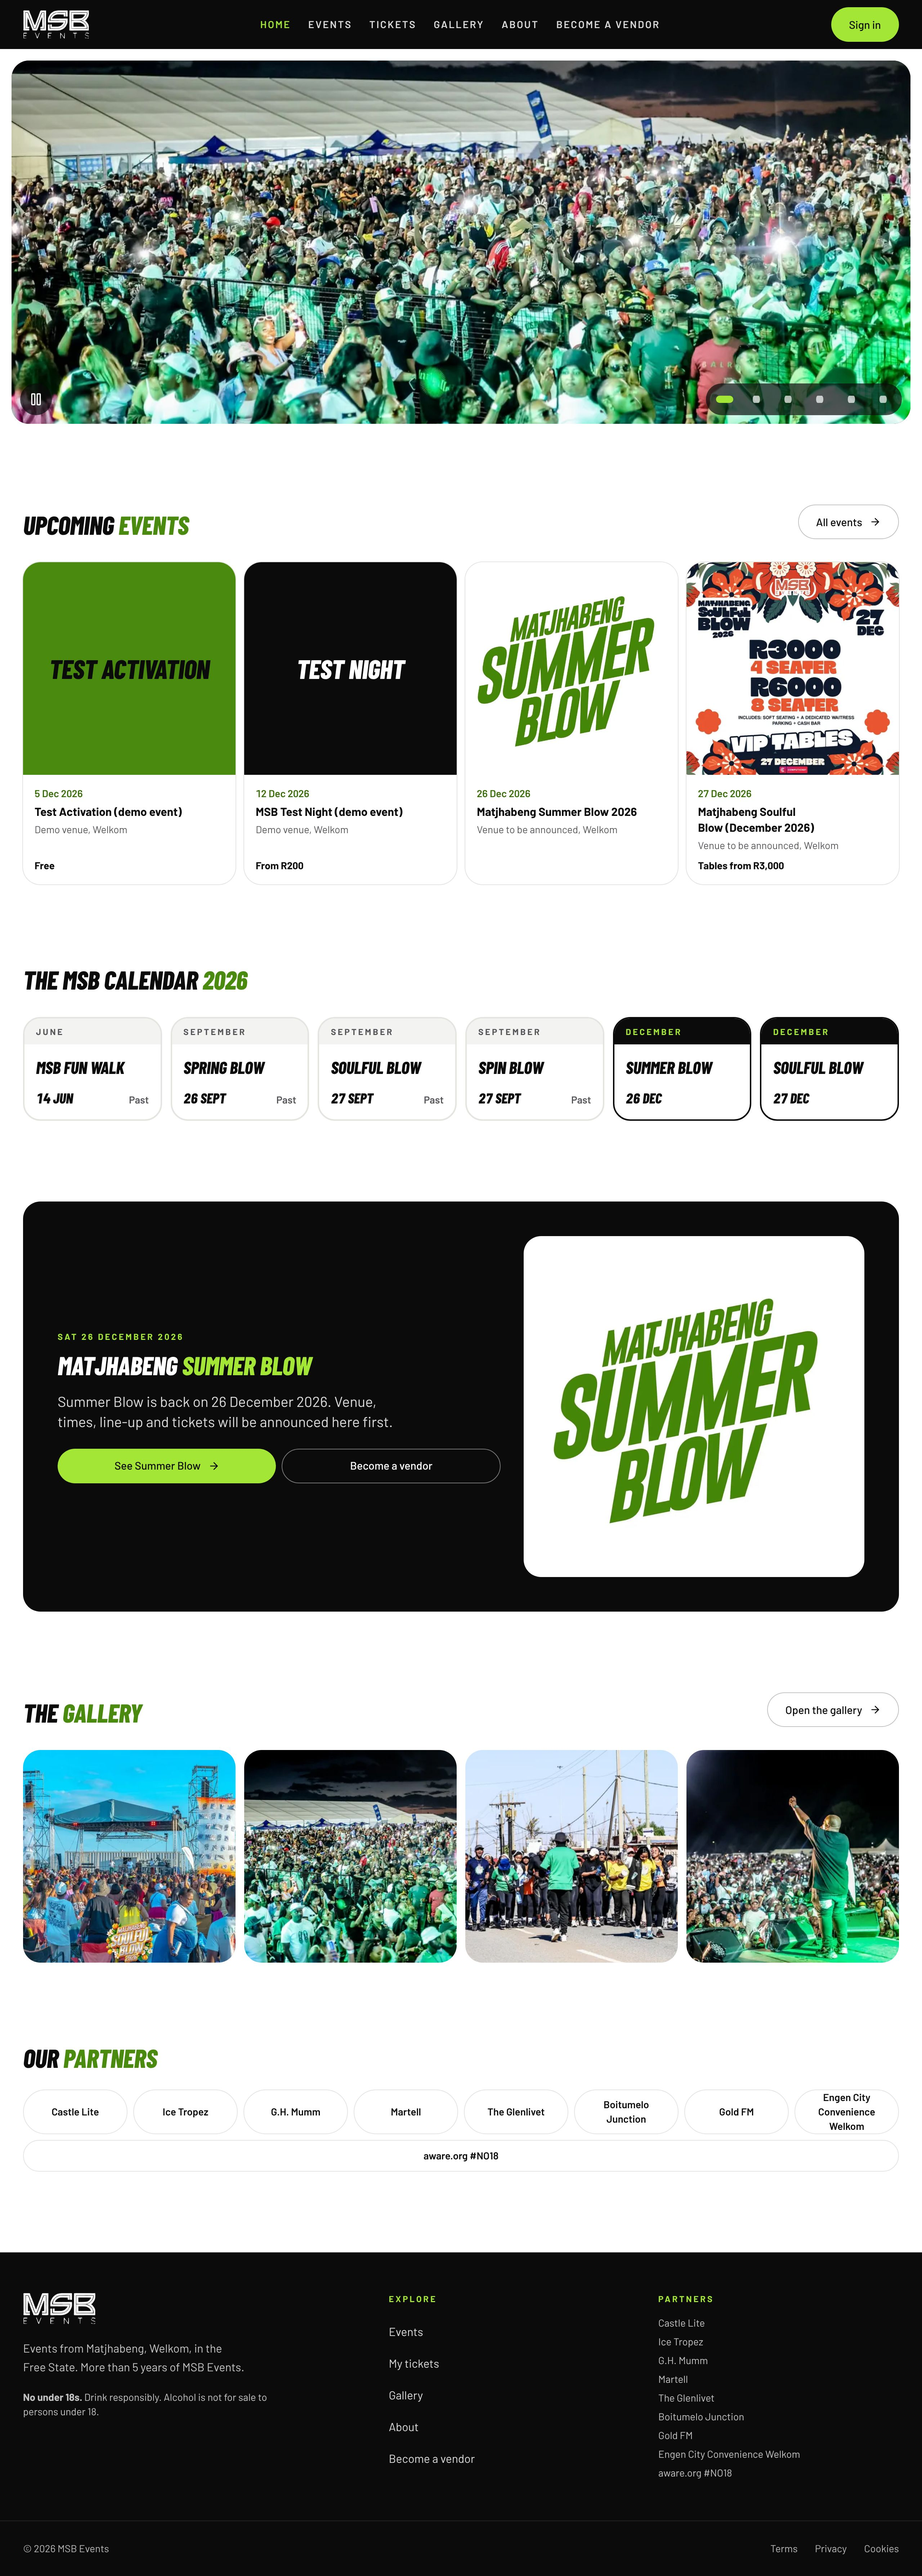
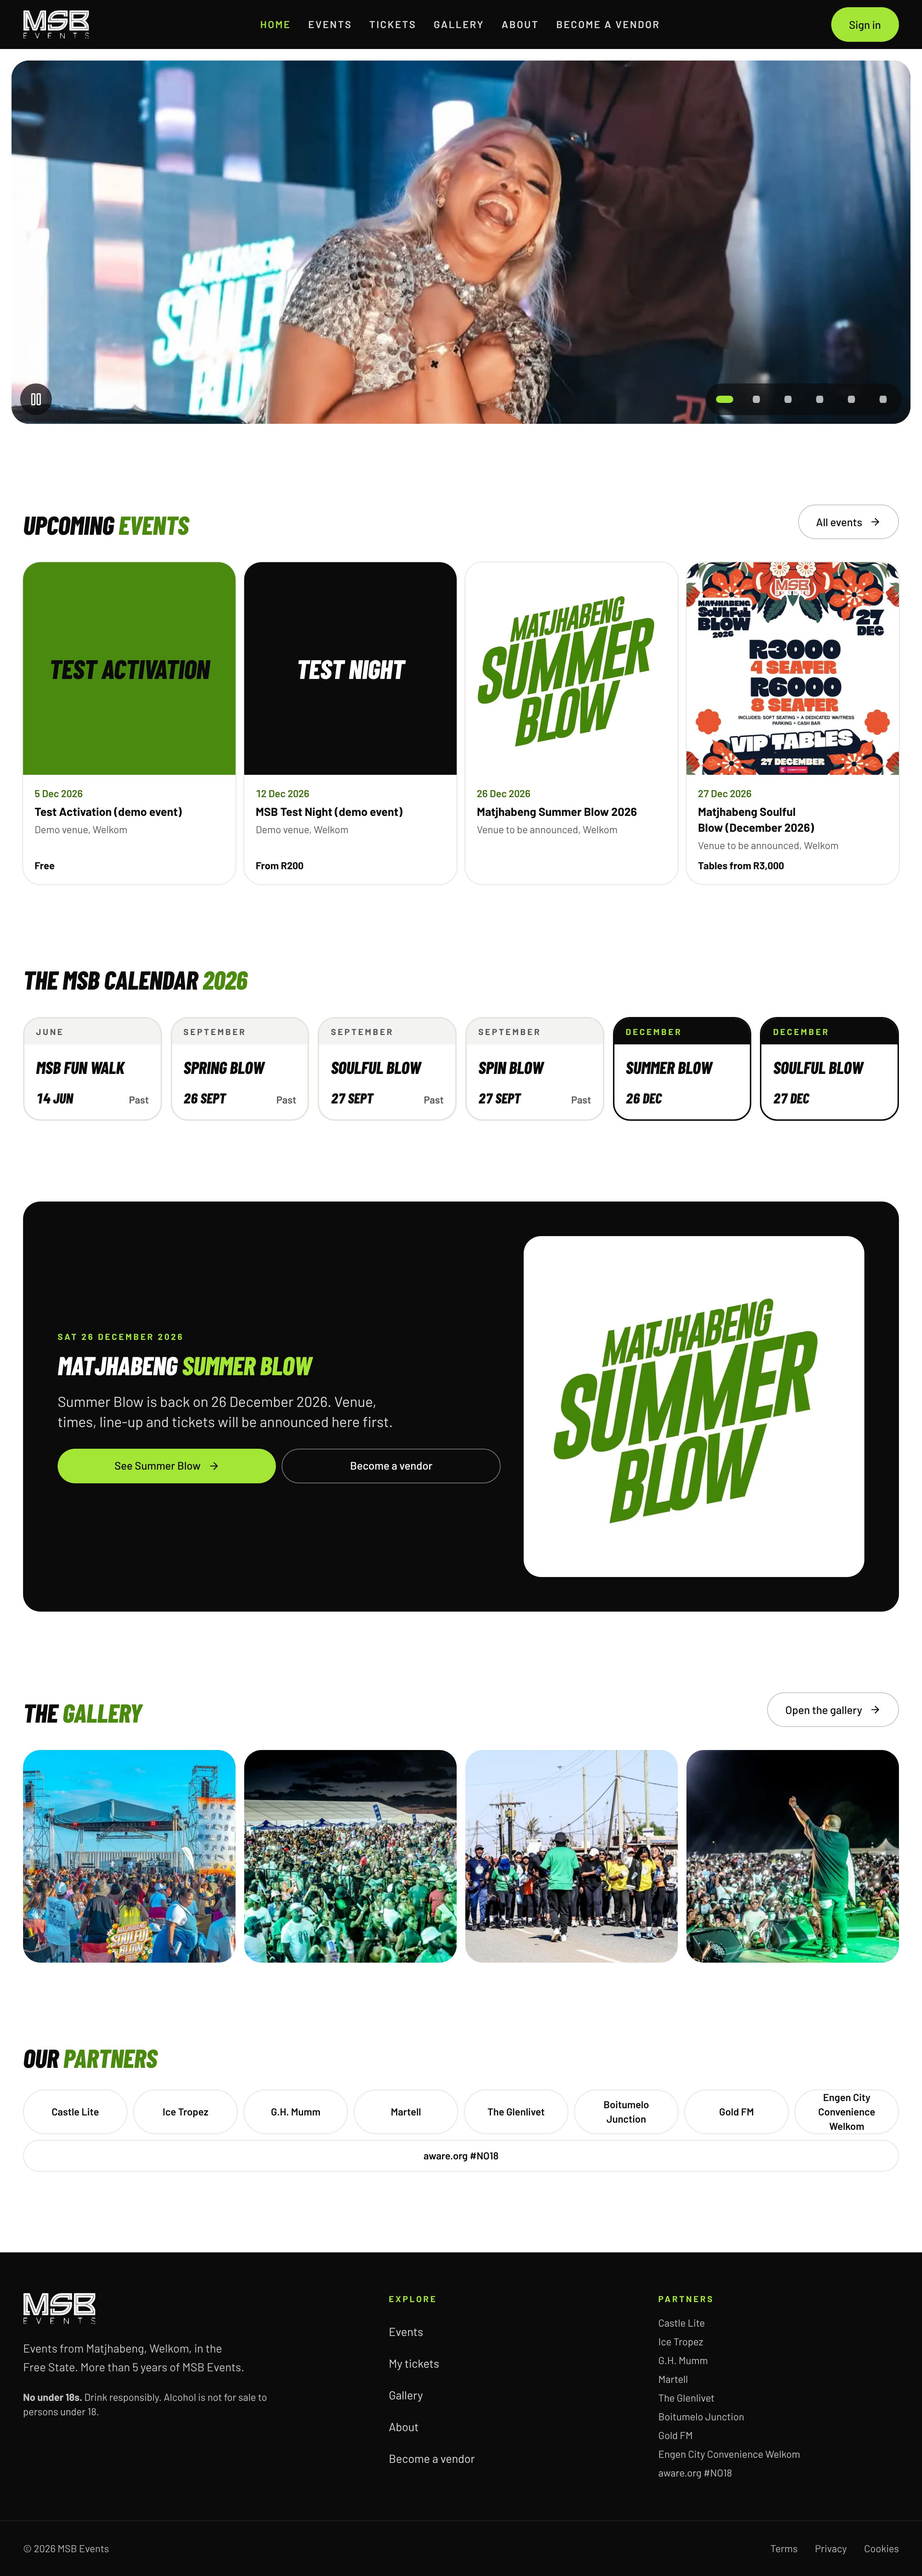
Home slideshow: the six photos chosen by MSB Events; two new Spring Blow photos in the gallery
Claude-Session: https://claude.ai/code/session_018NYH4mU8JW1KXeAiDMMBf2

Changed region(s): [[0.0, 0.0, 1.0, 0.1872]]

diff --git a/src/data/site.ts b/src/data/site.ts
@@ -23,11 +23,11 @@ export const CALENDAR_2026 = [
   'soulful-blow-december-2026',
 ];
 
-export const HERO_SLIDES = [
-  { src: '/brand/hero-2.webp', alt: 'Packed crowd under green stage lights at night' },
-  { src: '/brand/hero-1.webp', alt: 'Crowd dancing in front of the Soulful Blow 2026 stage on a sunny afternoon' },
-  { src: '/brand/hero-3.webp', alt: 'Guests on the field in front of the Summer Blow stage under a blue sky' },
+export const HERO_SLIDES: { src: string; alt: string; position?: string }[] = [
+  { src: '/brand/hero-1.webp', alt: 'Performer in a silver sequinned outfit on the Spring Blow stage', position: '45% 52%' },
+  { src: '/brand/hero-2.webp', alt: 'Spring Blow crowd cheering at the barrier at night', position: 'center 45%' },
+  { src: '/brand/hero-3.webp', alt: 'Blue car spinning past the crowd behind the barriers' },
   { src: '/brand/hero-4.webp', alt: 'Performer raising a fist to a crowd of phone lights' },
-  { src: '/brand/hero-5.webp', alt: 'Aerial view of a packed festival field at night' },
-  { src: '/brand/hero-6.webp', alt: 'Walkers in MSB Fun Walk 2025 shirts on the road' },
+  { src: '/brand/hero-5.webp', alt: 'Crowd with umbrellas in the rain at sunset', position: 'center 70%' },
+  { src: '/brand/hero-6.webp', alt: 'View from the stage over the daytime crowd', position: 'center 65%' },
 ];

diff --git a/src/components/HeroSlideshow.tsx b/src/components/HeroSlideshow.tsx
@@ -4,7 +4,7 @@ import { heroImg } from '../lib/data';
 
 /** Full photo slideshow. No text or buttons on the photos: only pause and dots.
  *  Each slide's photo loads only when its turn is near (current, next and previous). */
-export function HeroSlideshow({ slides, interval = 6000 }: { slides: { src: string; alt: string }[]; interval?: number }) {
+export function HeroSlideshow({ slides, interval = 6000 }: { slides: { src: string; alt: string; position?: string }[]; interval?: number }) {
   const [i, setI] = useState(0);
   const [playing, setPlaying] = useState(true);
   const n = slides.length;
@@ -36,6 +36,7 @@ export function HeroSlideshow({ slides, interval = 6000 }: { slides: { src: stri
                   height={img.height}
                   alt={s.alt}
                   className="w-full h-full object-cover"
+                  style={s.position ? { objectPosition: s.position } : undefined}
                   loading={k === 0 ? 'eager' : 'lazy'}
                   decoding="async"
                   {...(k === 0 ? { fetchpriority: 'high' } : {})}

diff --git a/src/pages/Events.tsx b/src/pages/Events.tsx
@@ -24,7 +24,7 @@ export default function Events() {
 
   return (
     <>
-      <PageHero title="Events" photo="/photos/festival-stage-view-day" position="center 60%" />
+      <PageHero title="Events" photo="/photos/summerblow-field-blue-sky" position="center 75%" />
       <div className="wrap py-12 md:py-16">
         <div role="group" aria-label="Show events" className="even-row [--even-min:7rem]" data-chips>
           {CHIPS.map((c) => (

diff --git a/src/pages/Gallery.tsx b/src/pages/Gallery.tsx
@@ -31,7 +31,7 @@ export default function Gallery() {
 
   return (
     <>
-      <PageHero title="Gallery" photo="/photos/festival-crowd-rain-sunset" position="center 70%" />
+      <PageHero title="Gallery" photo="/photos/festival-aerial-night" position="center 55%" />
       <div className="wrap py-12 md:py-16 space-y-14">
         {!items && (
           <div className="grid grid-cols-2 md:grid-cols-3 lg:grid-cols-4 gap-3" aria-hidden>

diff --git a/docs/PLACEHOLDERS.md b/docs/PLACEHOLDERS.md
@@ -1,7 +1,7 @@
 
 ## Event photos (added 25 November 2026)
 
-47 photos supplied by MSB Events are in `public/photos` (originals in `reference/photos`). They go into the gallery database like the posters: an admin presses **Load MSB events** in Dashboard → Events, and can then remove any of them in Dashboard → Gallery. Page title bands (Events, Gallery, About, Become a vendor, Cart, My tickets, Profile, legal pages) use some of these photos as backgrounds.
+49 photos supplied by MSB Events are in `public/photos` (originals in `reference/photos`). They go into the gallery database like the posters: an admin presses **Load MSB events** in Dashboard → Events, and can then remove any of them in Dashboard → Gallery. Page title bands (Events, Gallery, About, Become a vendor, Cart, My tickets, Profile, legal pages) use some of these photos as backgrounds.
 Labels come only from what is visible in the photos:
 - **Fun Walk 2025**: the shirts say "MSB Fun Walk & Family Day 2025".
 - **Soulful Blow 2026** and **Spring Blow 2026 activations**: the photos carry those logos.
